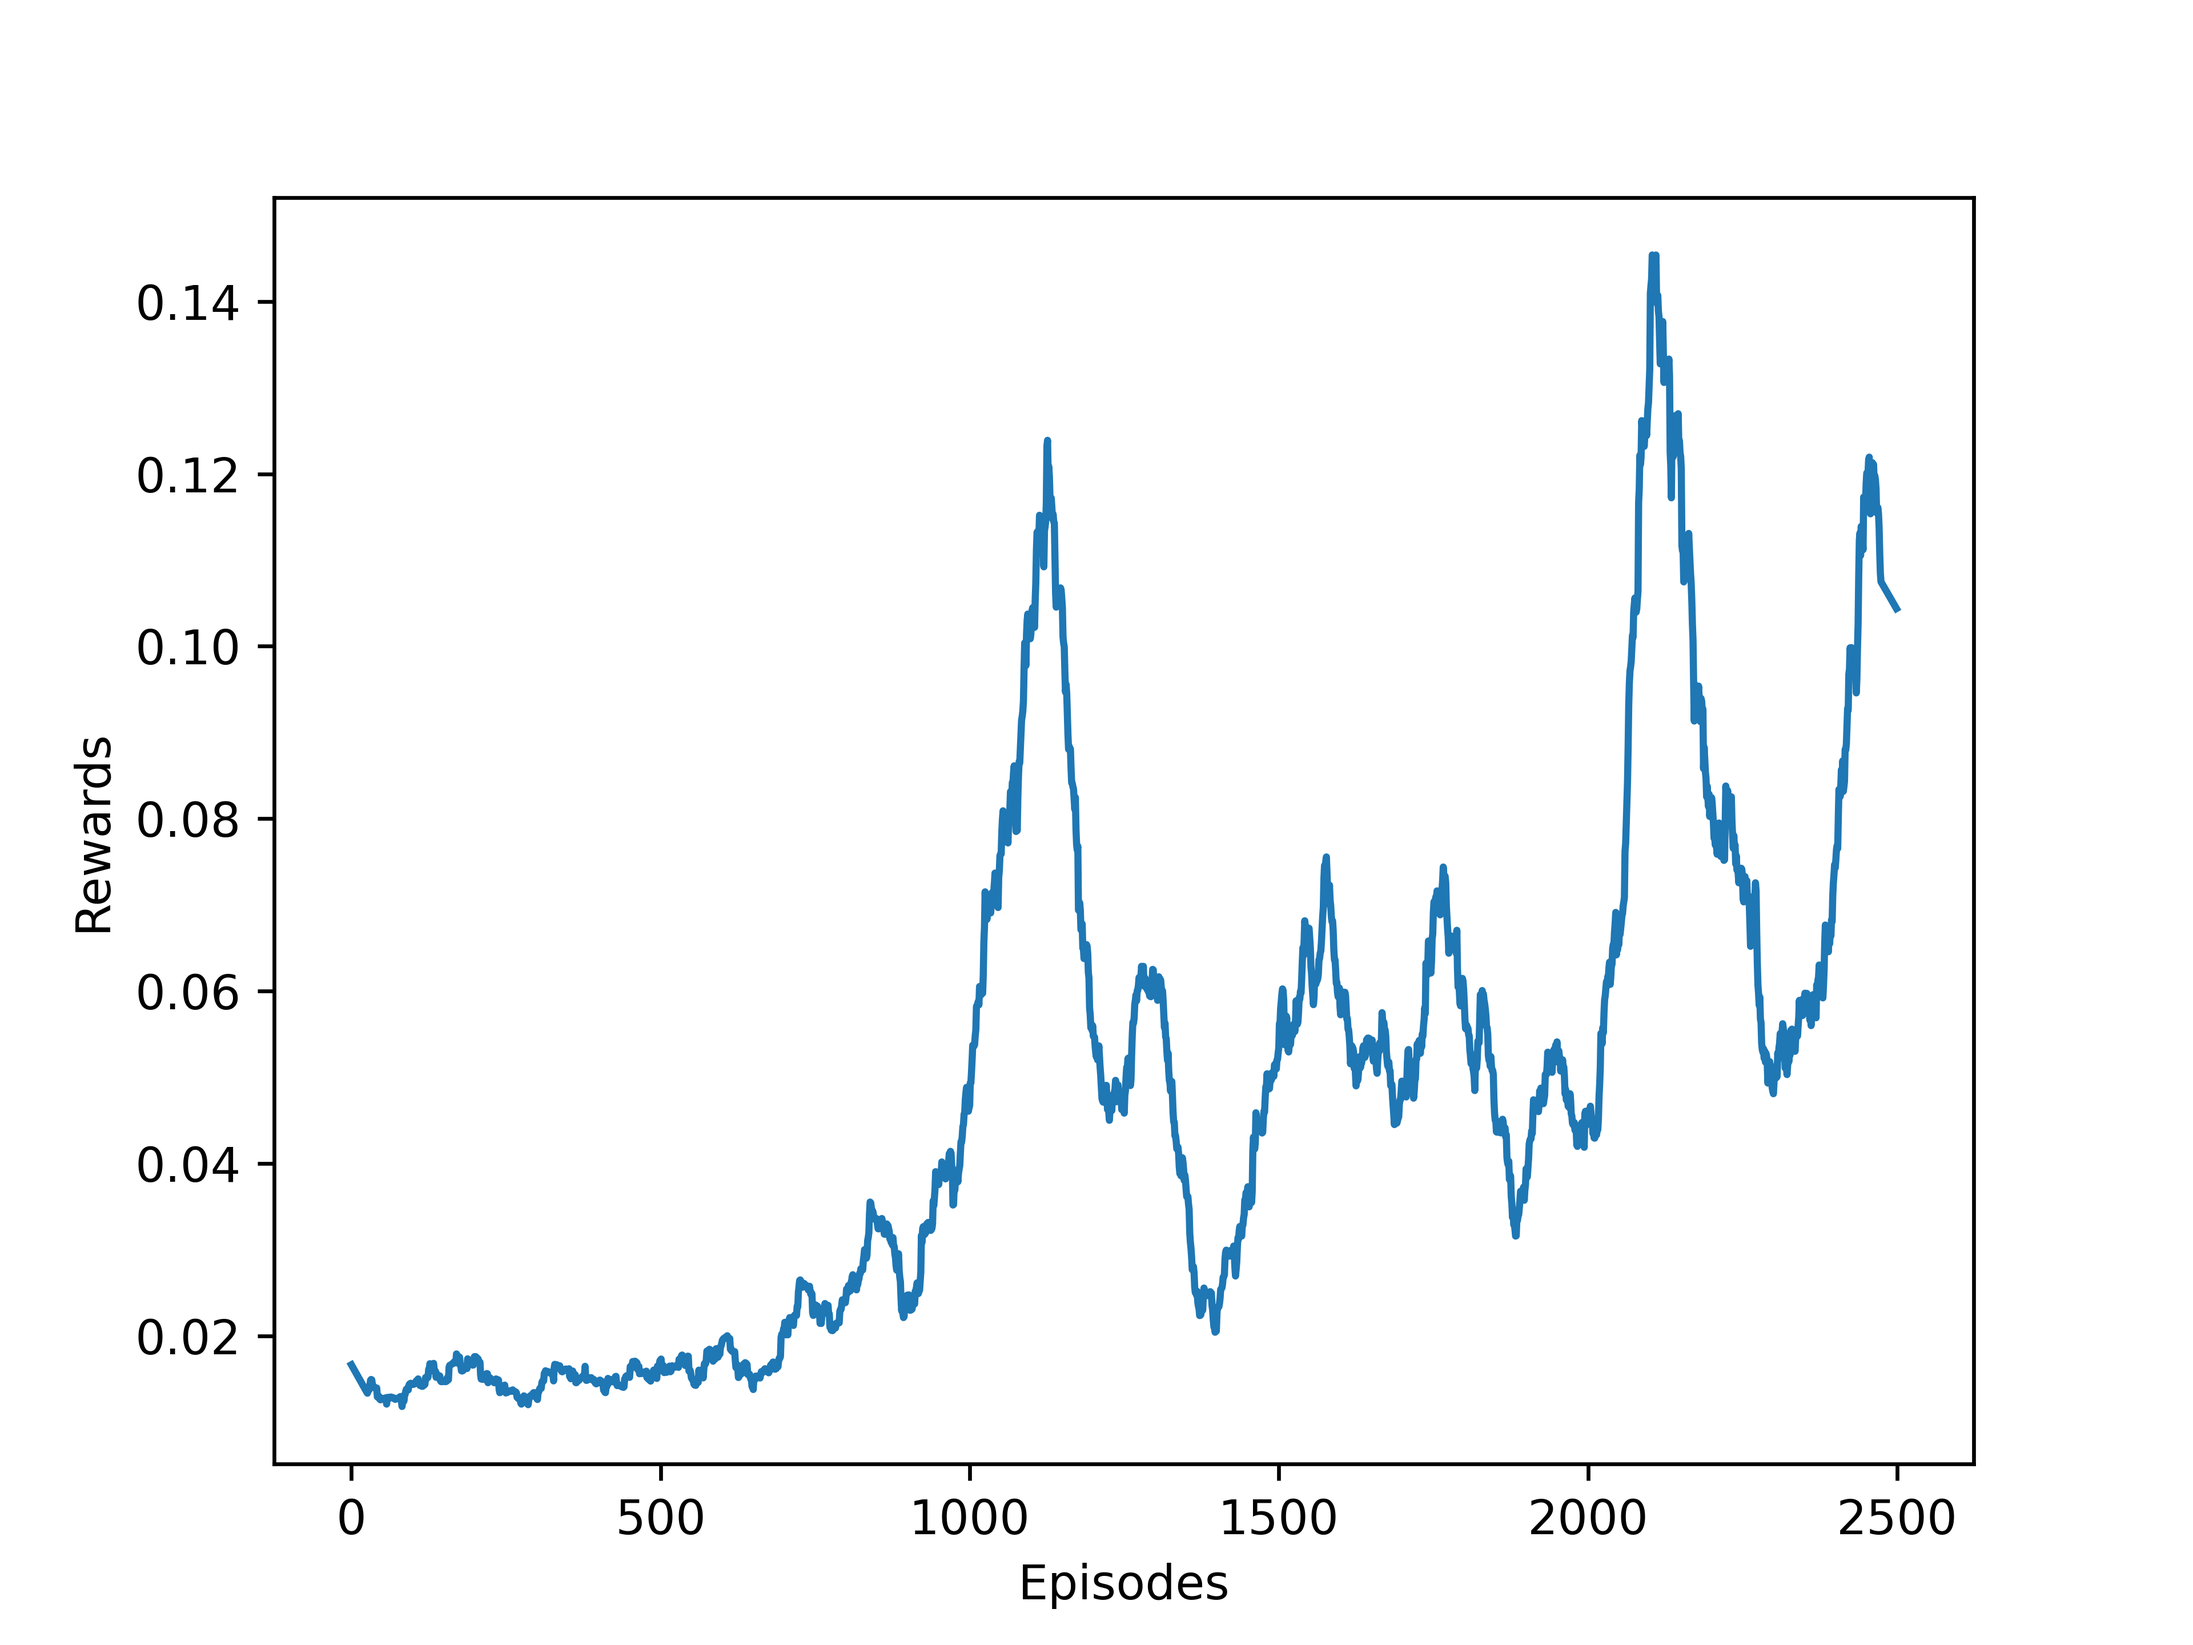
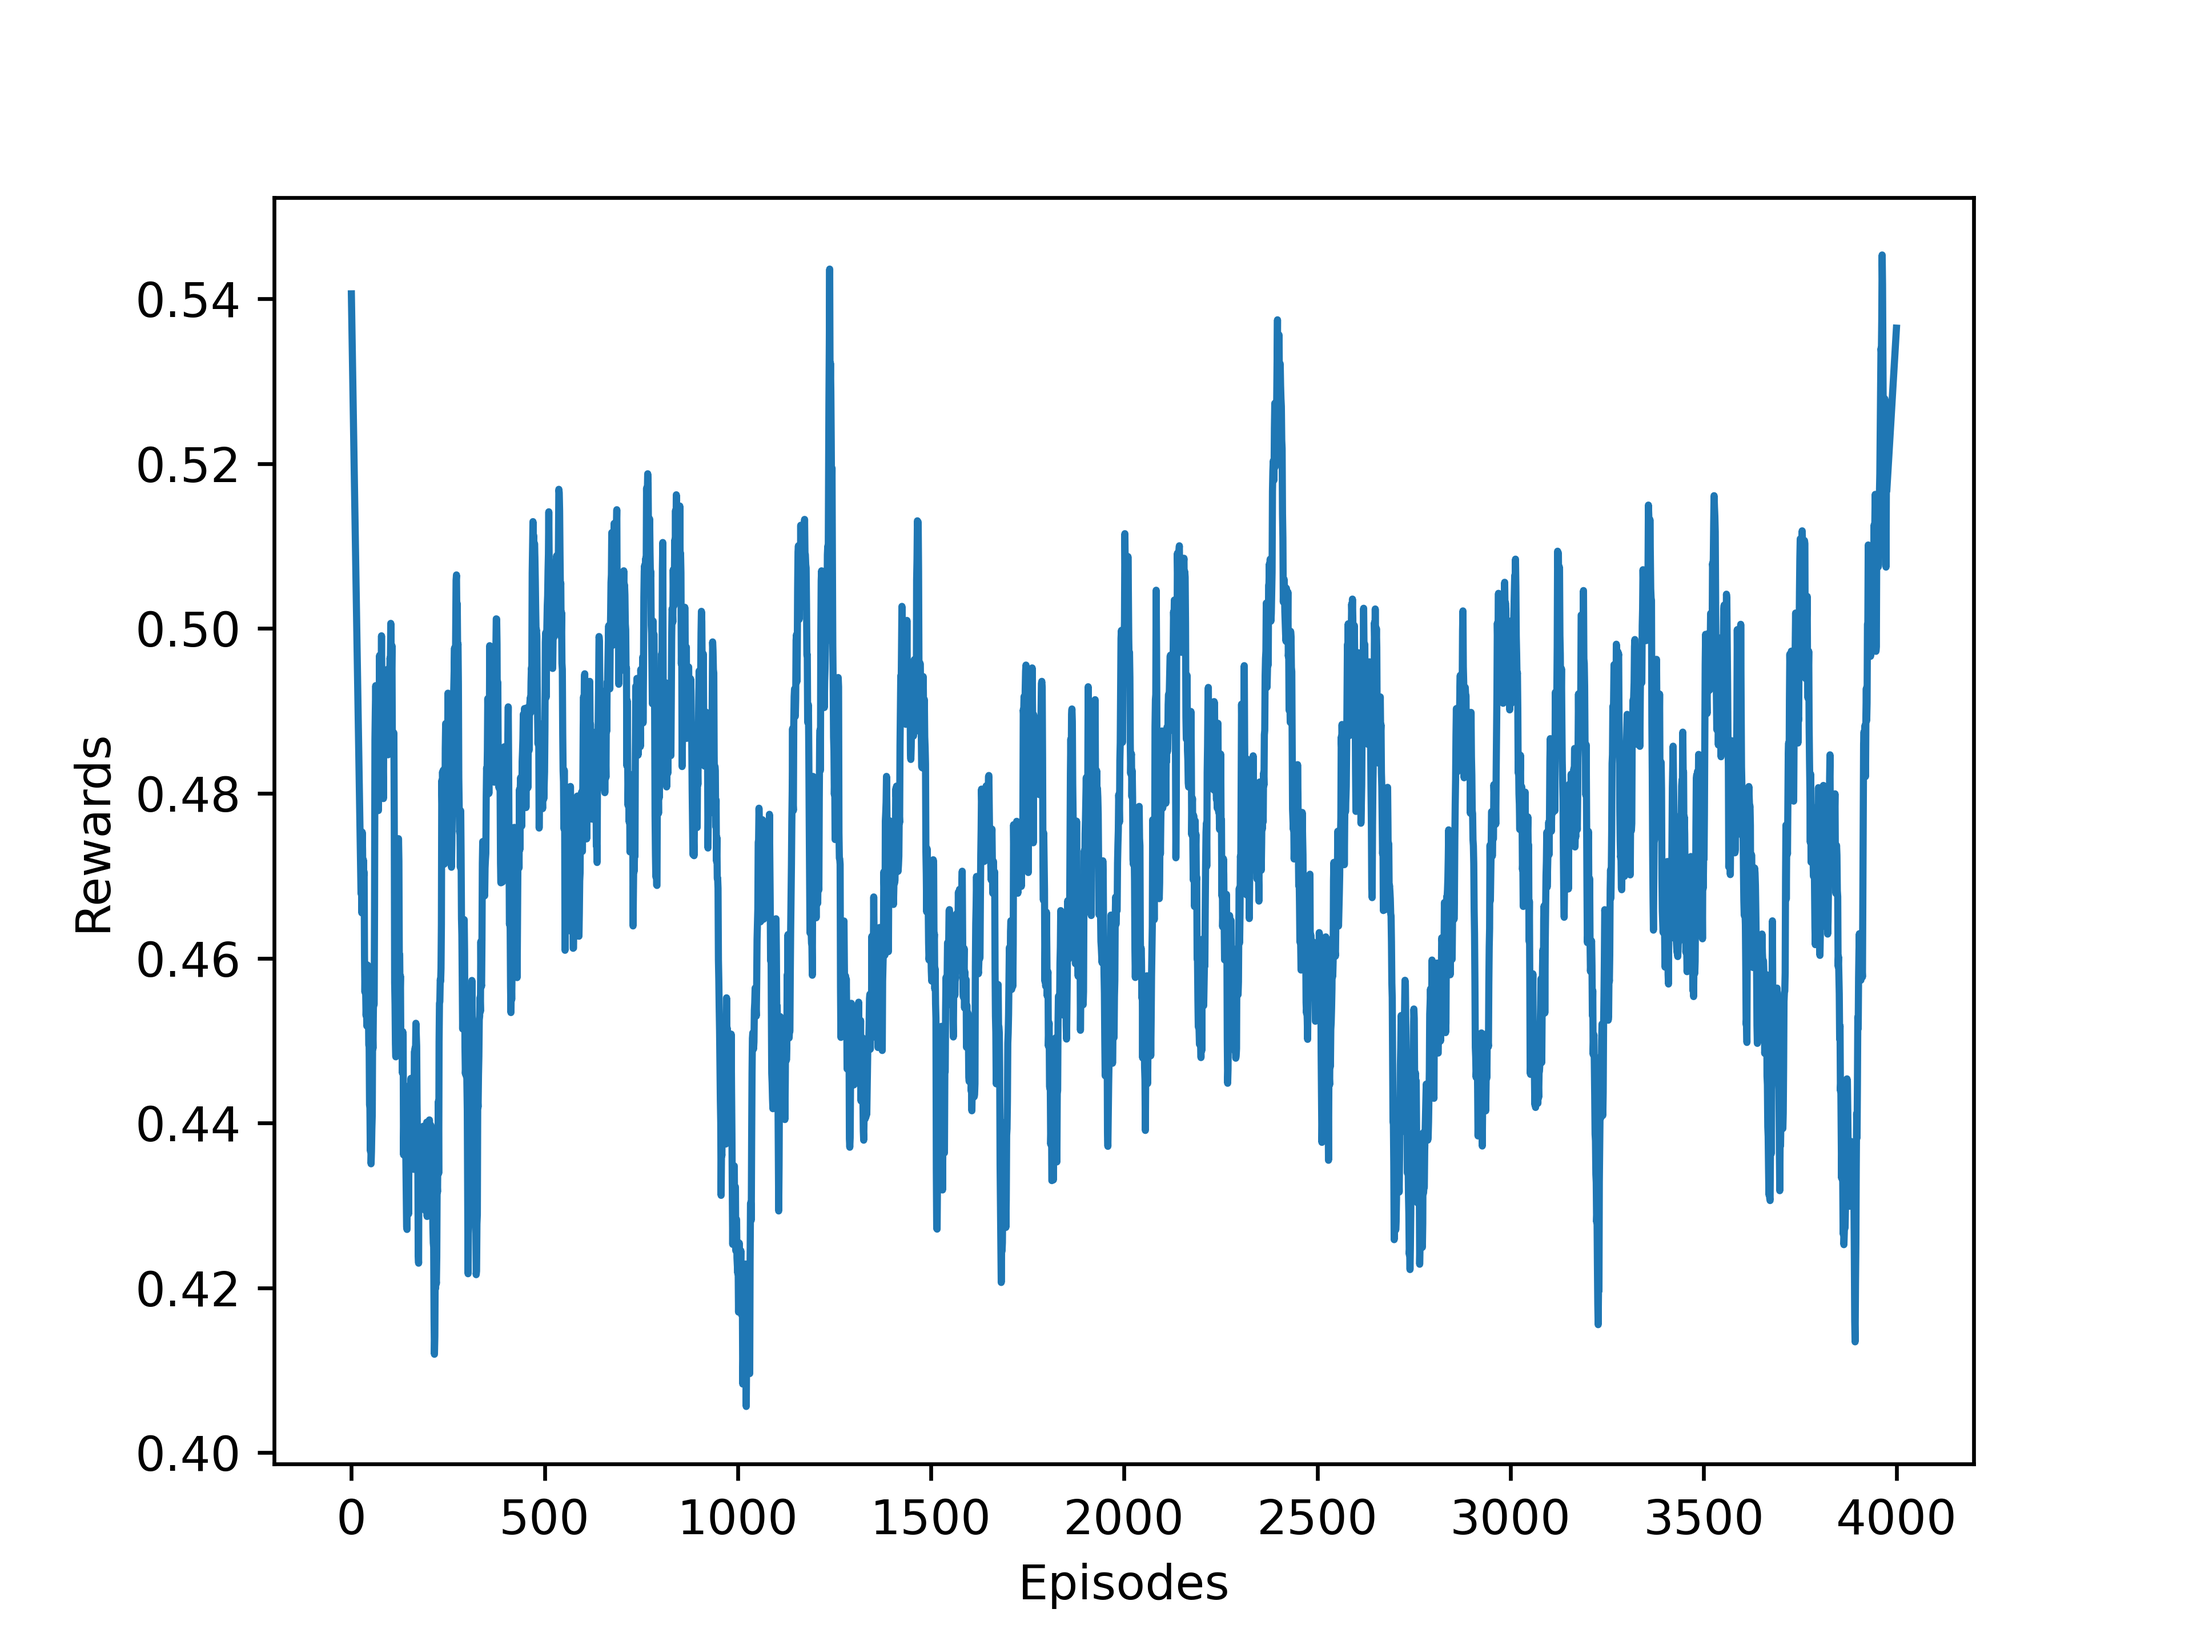
actor critic plot

diff --git a/actor_critic.py b/actor_critic.py
@@ -239,10 +239,10 @@ if __name__ == '__main__':
     print(env_name)
 
     # Define the Actor-Critic algorithm and train it
-    hyperparams_ac = HyperparamsActorCritic(entropy_reg=0.01, lr_actor=0.005, lr_critic=0.05, n_steps=1, batch_size=4, trace_length=100,
+    hyperparams_ac = HyperparamsActorCritic(entropy_reg=0.01, lr_actor=0.005, lr_critic=0.05, n_steps=1, batch_size=4, trace_length=10,
                                             bootstrap=args.bootstrap, baseline=args.baseline)
     ac = ActorCritic(env=env, hyperparams=hyperparams_ac, experiment_name='actor-critic')
-    rewards = ac.train(n_epochs=500)
+    rewards = ac.train(n_epochs=1000)
     
     torch.save(ac.actor, env_name + '_actor_critic.pt')  # Save the actor network
 
